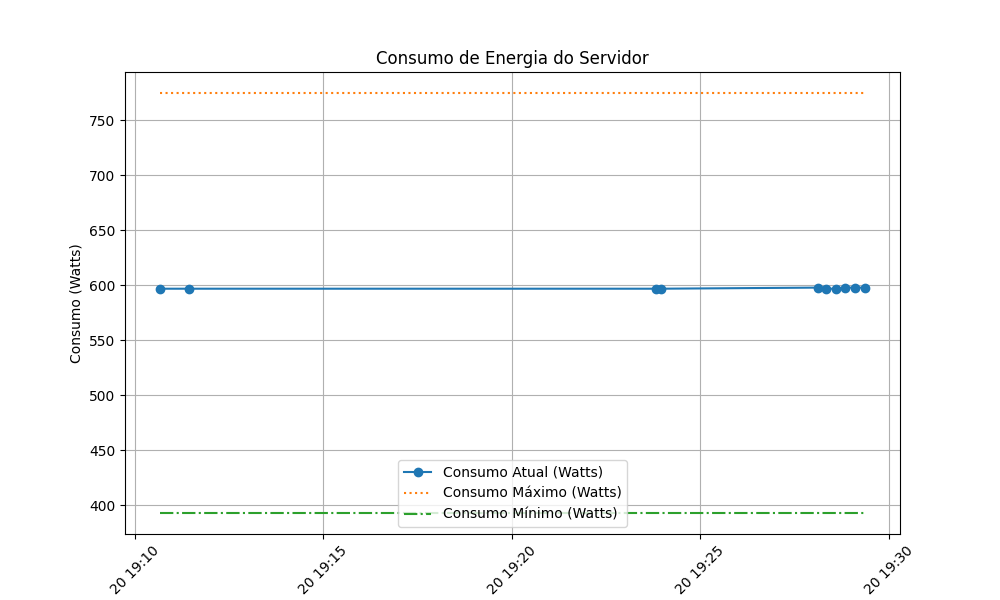
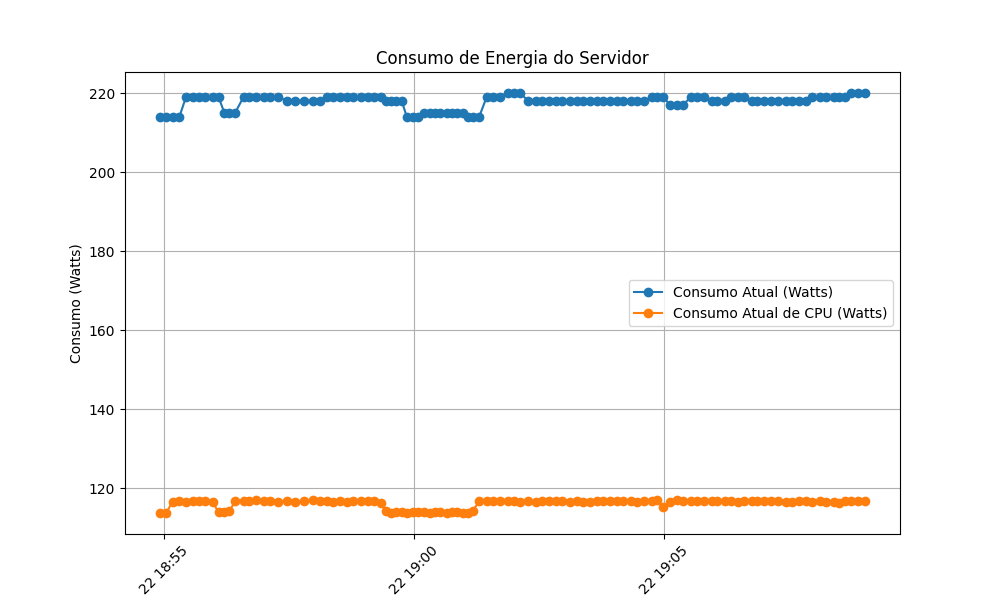
Added CPU power consumption

diff --git a/powerMeasure/plot-power-measured.py b/powerMeasure/plot-power-measured.py
@@ -1,14 +1,15 @@
 import pandas as pd
 import matplotlib.pyplot as plt
 
-csv_file = "power_log.csv"
+csv_file = "power_log_2025-01-22_18-54-48.csv"
 
 data = pd.read_csv(csv_file)
 
 data['timestamp'] = pd.to_datetime(data['timestamp'])
 
 plt.figure(figsize=(10, 6))
-plt.plot(data['timestamp'], data['current_reading'], label='Consumo Atual (Watts)', marker='o')
+plt.plot(data['timestamp'], data['realtime_power'], label='Consumo Atual (Watts)', marker='o')
+plt.plot(data['timestamp'], data['cpu_power'], label='Consumo Atual de CPU (Watts)', marker='o')
 
 plt.title('Consumo de Energia do Servidor')
 plt.xlabel('Timestamp')
